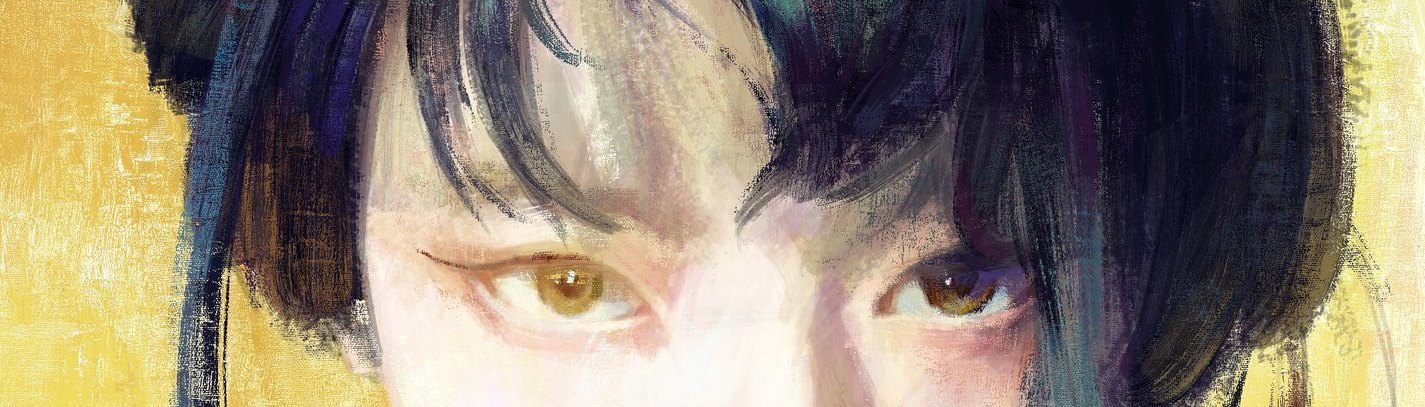
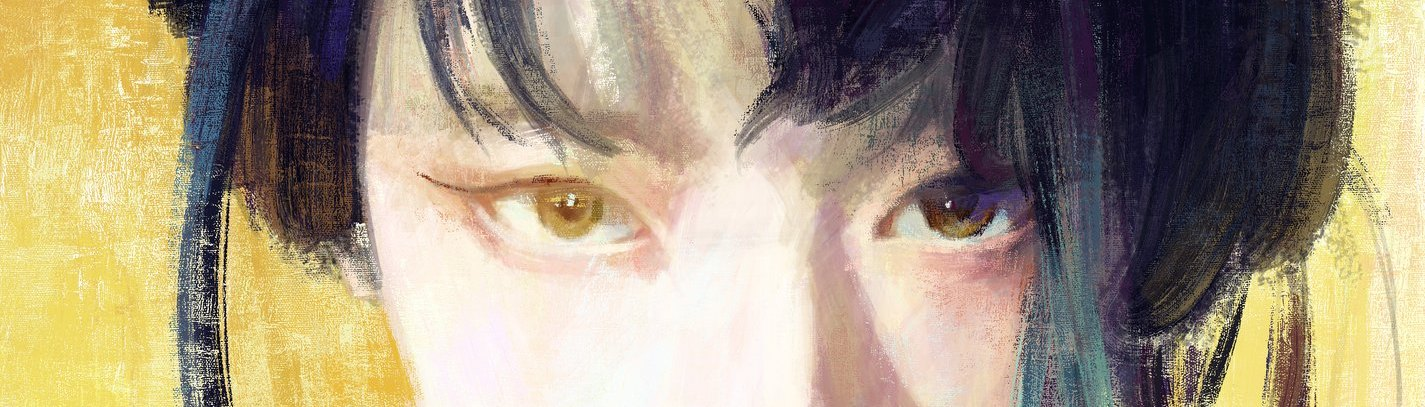
横幅裁剪下移，眼睛居中

diff --git a/works.html b/works.html
@@ -121,7 +121,7 @@
         <section class="illus-entry">
           <h2 class="illus-entry-title">插画</h2>
           <a class="illus-entry-card" href="./illustrations.html">
-            <img src="./assets/illustrations/ill-banner-05.jpg" alt="插画板块入口" />
+            <img src="./assets/illustrations/ill-banner-05.jpg?v=2" alt="插画板块入口" />
             <div class="illus-entry-mask">
               <span class="illus-entry-label">查看全部插画</span>
               <span class="illus-entry-arrow">→</span>
